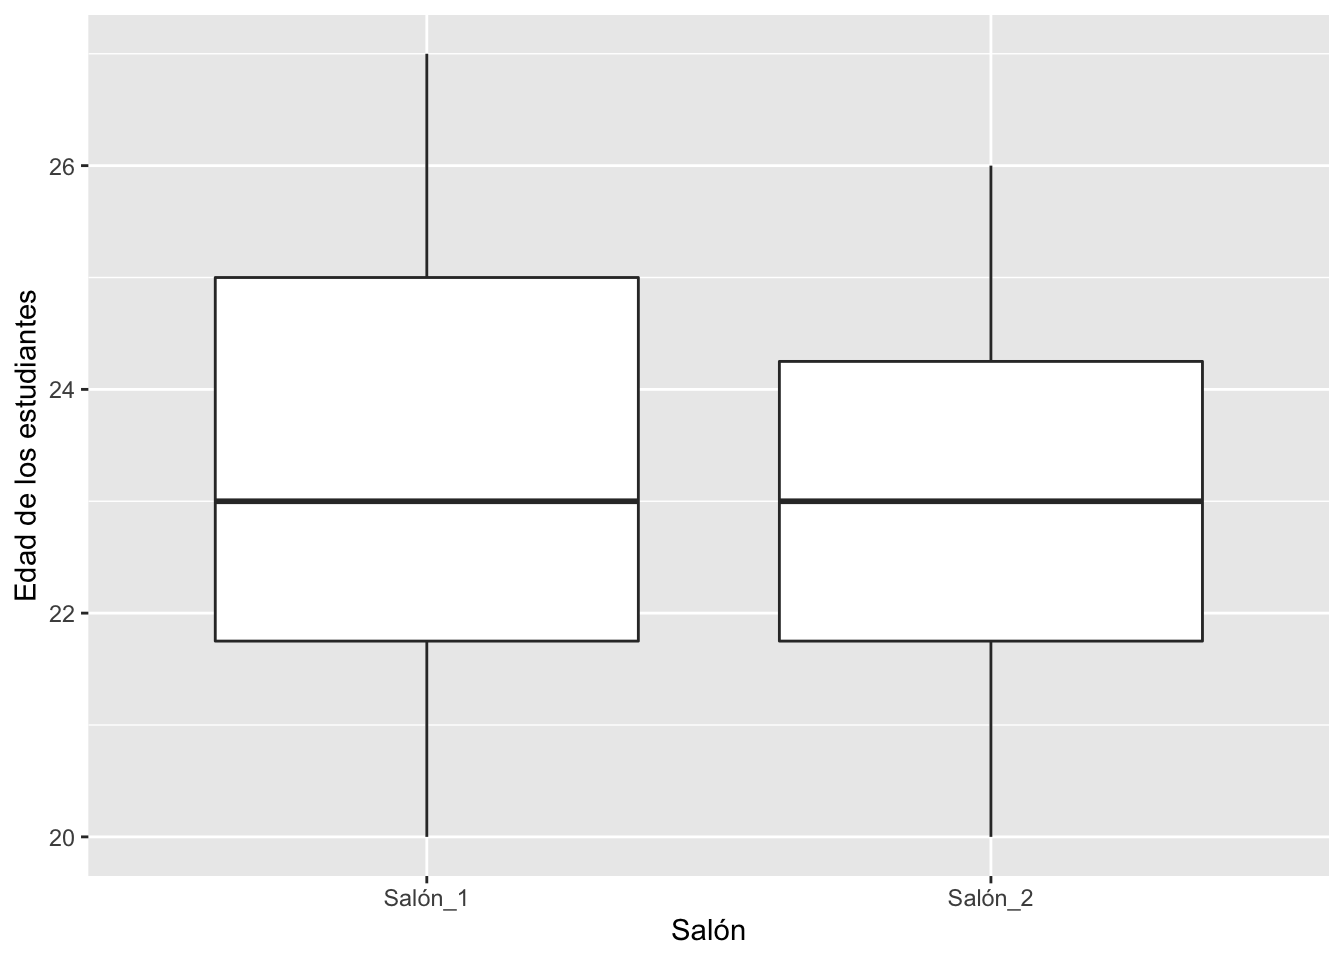
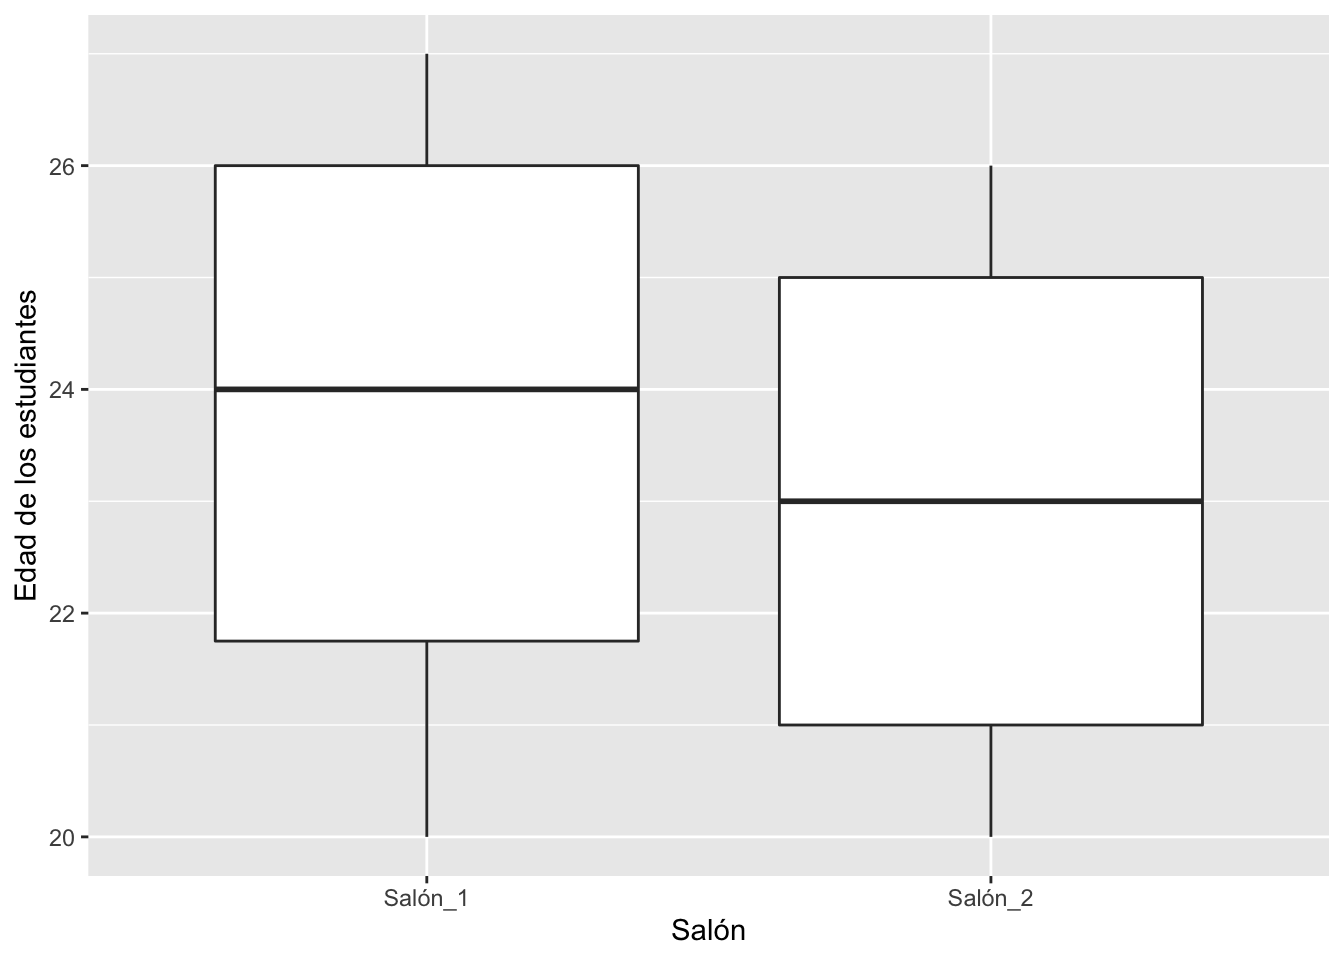
yml

diff --git a/G1-ggplot2.html b/G1-ggplot2.html
@@ -431,19 +431,7 @@ div.tocify {
   </a>
   <ul class="dropdown-menu" role="menu">
     <li>
-      <a href="Plataforma.html">Lo básico de RStudio</a>
-    </li>
-    <li>
-      <a href="RMarkdown.html">RMarkdown: Lo básico</a>
-    </li>
-    <li>
       <a href="Documento_RMarkdown-ed">Una breve introducción a RMarkdown</a>
-    </li>
-    <li>
-      <a href="Tendencias_Centrales.html"> Tendencias Centrales</a>
-    </li>
-    <li>
-      <a href="Medidas_Dispersión.html"> Medidas de Dispersión</a>
     </li>
   </ul>
 </li>
@@ -525,17 +513,17 @@ div.tocify {
 <p>Veamos un ejemplo. Si uno lista las edades de estudiantes universitarios de dos salones, tendremos el reto de intentar discernir si sus edades son aproximadamente iguales o diferentes solo al mirar la lista. ¿Será posible? A ver, intenta explicar cuál es la diferencia (si existe alguna) en las edades de las dos listas siguientes.</p>
 <p>Edades del salón 1:</p>
 <pre><code>## $V1
-##   [1] 23 23 21 20 24 21 22 27 27 25 27 27 24 20 22 20 22 20 26 24 24 21 24 24 24
-##  [26] 21 21 26 22 21 26 25 25 24 26 23 22 24 23 21 24 21 27 20 24 23 24 20 21 22
-##  [51] 25 24 23 22 25 22 27 23 21 27 26 27 24 27 24 23 23 20 27 21 27 21 25 22 25
-##  [76] 27 22 24 27 23 20 23 20 23 26 27 25 21 22 25 26 21 20 23 25 21 22 26 26 22</code></pre>
+##   [1] 24 22 24 22 23 24 20 22 21 27 25 24 22 24 21 20 27 20 23 20 22 27 22 26 20
+##  [26] 22 20 23 21 24 23 22 21 26 27 25 21 25 26 26 25 22 27 27 25 26 25 27 26 25
+##  [51] 27 27 25 26 20 25 27 26 26 22 22 20 21 27 26 22 21 24 25 24 21 25 21 27 26
+##  [76] 25 21 20 20 24 23 24 21 25 26 23 25 21 27 25 25 25 26 20 20 20 26 23 23 25</code></pre>
 <hr />
 <p>Edades del salón 2:</p>
 <pre><code>## $V1
-##   [1] 23 25 21 21 24 22 24 23 24 22 21 24 24 23 24 26 26 22 24 23 22 21 25 24 23
-##  [26] 24 26 23 24 24 25 20 25 26 23 23 26 26 25 24 26 26 26 26 25 23 20 20 25 26
-##  [51] 21 21 23 21 23 22 21 20 21 20 25 23 24 26 25 24 23 21 24 20 21 24 20 26 22
-##  [76] 24 24 21 26 20 22 26 23 25 24 20 23 20 24 22 20 23 23 23 20 20 24 24 24 23</code></pre>
+##   [1] 22 22 25 20 21 20 23 25 21 26 20 24 25 20 26 22 26 26 24 26 23 23 20 26 24
+##  [26] 21 20 25 21 22 22 23 25 21 21 23 20 20 24 26 23 25 21 26 21 21 22 26 23 25
+##  [51] 25 26 20 22 25 26 25 21 25 24 22 22 21 21 24 26 26 20 20 25 21 24 24 22 25
+##  [76] 22 25 24 23 26 24 26 26 20 22 20 26 20 26 21 20 23 26 22 21 22 24 20 26 25</code></pre>
 <p>Probablemente notes que no es evidente a primera vista cuál es la diferencia entre las dos listas de datos. Necesitamos ayuda para visualizar la diferencia. A continuación se explican un par de maneras de ver esa misma información.</p>
 <hr />
 <div id="resumir-la-información-en-tablas" class="section level2">
@@ -905,7 +893,7 @@ dplyr::group_by(Salón)%&gt;%
     </tr>
   </thead>
   <tbody class="gt_table_body">
-    <tr><td class="gt_row gt_right">23.315</td>
+    <tr><td class="gt_row gt_right">23.37</td>
 <td class="gt_row gt_right">20</td>
 <td class="gt_row gt_right">27</td></tr>
   </tbody>

diff --git a/G15b_gganimate.html b/G15b_gganimate.html
@@ -431,19 +431,7 @@ div.tocify {
   </a>
   <ul class="dropdown-menu" role="menu">
     <li>
-      <a href="Plataforma.html">Lo básico de RStudio</a>
-    </li>
-    <li>
-      <a href="RMarkdown.html">RMarkdown: Lo básico</a>
-    </li>
-    <li>
       <a href="Documento_RMarkdown-ed">Una breve introducción a RMarkdown</a>
-    </li>
-    <li>
-      <a href="Tendencias_Centrales.html"> Tendencias Centrales</a>
-    </li>
-    <li>
-      <a href="Medidas_Dispersión.html"> Medidas de Dispersión</a>
     </li>
   </ul>
 </li>
@@ -569,7 +557,7 @@ t</code></pre>
 <div id="poniendo-un-punto-para-valor" class="section level2">
 <h2>Poniendo un punto para valor</h2>
 <p>Los puntos se pueden quedar en el gráfico añadiendo <strong>(group = seq_along(Día)</strong>.</p>
-<pre class="r"><code>t + geom_point(aes(group = seq_along( Día))) +
+<pre class="r"><code>t + geom_point(aes(group = seq_along( Día ))) +
   transition_reveal( Día)</code></pre>
 <p><img src="G15b_gganimate_files/figure-html/puntos%20permanentes-1.gif" /><!-- --></p>
 </div>

diff --git a/2_Activity_R4DS.html b/2_Activity_R4DS.html
@@ -355,19 +355,7 @@ $(document).ready(function () {
   </a>
   <ul class="dropdown-menu" role="menu">
     <li>
-      <a href="Plataforma.html">Lo básico de RStudio</a>
-    </li>
-    <li>
-      <a href="RMarkdown.html">RMarkdown: Lo básico</a>
-    </li>
-    <li>
       <a href="Documento_RMarkdown-ed">Una breve introducción a RMarkdown</a>
-    </li>
-    <li>
-      <a href="Tendencias_Centrales.html"> Tendencias Centrales</a>
-    </li>
-    <li>
-      <a href="Medidas_Dispersión.html"> Medidas de Dispersión</a>
     </li>
   </ul>
 </li>

diff --git a/404.html b/404.html
@@ -354,19 +354,7 @@ $(document).ready(function () {
   </a>
   <ul class="dropdown-menu" role="menu">
     <li>
-      <a href="Plataforma.html">Lo básico de RStudio</a>
-    </li>
-    <li>
-      <a href="RMarkdown.html">RMarkdown: Lo básico</a>
-    </li>
-    <li>
       <a href="Documento_RMarkdown-ed">Una breve introducción a RMarkdown</a>
-    </li>
-    <li>
-      <a href="Tendencias_Centrales.html"> Tendencias Centrales</a>
-    </li>
-    <li>
-      <a href="Medidas_Dispersión.html"> Medidas de Dispersión</a>
     </li>
   </ul>
 </li>

diff --git a/Descripción.html b/Descripción.html
@@ -354,19 +354,7 @@ $(document).ready(function () {
   </a>
   <ul class="dropdown-menu" role="menu">
     <li>
-      <a href="Plataforma.html">Lo básico de RStudio</a>
-    </li>
-    <li>
-      <a href="RMarkdown.html">RMarkdown: Lo básico</a>
-    </li>
-    <li>
       <a href="Documento_RMarkdown-ed">Una breve introducción a RMarkdown</a>
-    </li>
-    <li>
-      <a href="Tendencias_Centrales.html"> Tendencias Centrales</a>
-    </li>
-    <li>
-      <a href="Medidas_Dispersión.html"> Medidas de Dispersión</a>
     </li>
   </ul>
 </li>

diff --git a/Documento_RMarkdown-ed.html b/Documento_RMarkdown-ed.html
@@ -355,19 +355,7 @@ $(document).ready(function () {
   </a>
   <ul class="dropdown-menu" role="menu">
     <li>
-      <a href="Plataforma.html">Lo básico de RStudio</a>
-    </li>
-    <li>
-      <a href="RMarkdown.html">RMarkdown: Lo básico</a>
-    </li>
-    <li>
       <a href="Documento_RMarkdown-ed">Una breve introducción a RMarkdown</a>
-    </li>
-    <li>
-      <a href="Tendencias_Centrales.html"> Tendencias Centrales</a>
-    </li>
-    <li>
-      <a href="Medidas_Dispersión.html"> Medidas de Dispersión</a>
     </li>
   </ul>
 </li>

diff --git a/Documento_RMarkdown-ed2.html b/Documento_RMarkdown-ed2.html
@@ -355,19 +355,7 @@ $(document).ready(function () {
   </a>
   <ul class="dropdown-menu" role="menu">
     <li>
-      <a href="Plataforma.html">Lo básico de RStudio</a>
-    </li>
-    <li>
-      <a href="RMarkdown.html">RMarkdown: Lo básico</a>
-    </li>
-    <li>
       <a href="Documento_RMarkdown-ed">Una breve introducción a RMarkdown</a>
-    </li>
-    <li>
-      <a href="Tendencias_Centrales.html"> Tendencias Centrales</a>
-    </li>
-    <li>
-      <a href="Medidas_Dispersión.html"> Medidas de Dispersión</a>
     </li>
   </ul>
 </li>

diff --git a/Documento_RMarkdown-ed2_GT.html b/Documento_RMarkdown-ed2_GT.html
@@ -355,19 +355,7 @@ $(document).ready(function () {
   </a>
   <ul class="dropdown-menu" role="menu">
     <li>
-      <a href="Plataforma.html">Lo básico de RStudio</a>
-    </li>
-    <li>
-      <a href="RMarkdown.html">RMarkdown: Lo básico</a>
-    </li>
-    <li>
       <a href="Documento_RMarkdown-ed">Una breve introducción a RMarkdown</a>
-    </li>
-    <li>
-      <a href="Tendencias_Centrales.html"> Tendencias Centrales</a>
-    </li>
-    <li>
-      <a href="Medidas_Dispersión.html"> Medidas de Dispersión</a>
     </li>
   </ul>
 </li>

diff --git a/Documento_RMarkdown.html b/Documento_RMarkdown.html
@@ -355,19 +355,7 @@ $(document).ready(function () {
   </a>
   <ul class="dropdown-menu" role="menu">
     <li>
-      <a href="Plataforma.html">Lo básico de RStudio</a>
-    </li>
-    <li>
-      <a href="RMarkdown.html">RMarkdown: Lo básico</a>
-    </li>
-    <li>
       <a href="Documento_RMarkdown-ed">Una breve introducción a RMarkdown</a>
-    </li>
-    <li>
-      <a href="Tendencias_Centrales.html"> Tendencias Centrales</a>
-    </li>
-    <li>
-      <a href="Medidas_Dispersión.html"> Medidas de Dispersión</a>
     </li>
   </ul>
 </li>

diff --git a/E5-supuestos.html b/E5-supuestos.html
@@ -355,19 +355,7 @@ $(document).ready(function () {
   </a>
   <ul class="dropdown-menu" role="menu">
     <li>
-      <a href="Plataforma.html">Lo básico de RStudio</a>
-    </li>
-    <li>
-      <a href="RMarkdown.html">RMarkdown: Lo básico</a>
-    </li>
-    <li>
       <a href="Documento_RMarkdown-ed">Una breve introducción a RMarkdown</a>
-    </li>
-    <li>
-      <a href="Tendencias_Centrales.html"> Tendencias Centrales</a>
-    </li>
-    <li>
-      <a href="Medidas_Dispersión.html"> Medidas de Dispersión</a>
     </li>
   </ul>
 </li>

diff --git a/E8-Tipos_de_Datos.html b/E8-Tipos_de_Datos.html
@@ -355,19 +355,7 @@ $(document).ready(function () {
   </a>
   <ul class="dropdown-menu" role="menu">
     <li>
-      <a href="Plataforma.html">Lo básico de RStudio</a>
-    </li>
-    <li>
-      <a href="RMarkdown.html">RMarkdown: Lo básico</a>
-    </li>
-    <li>
       <a href="Documento_RMarkdown-ed">Una breve introducción a RMarkdown</a>
-    </li>
-    <li>
-      <a href="Tendencias_Centrales.html"> Tendencias Centrales</a>
-    </li>
-    <li>
-      <a href="Medidas_Dispersión.html"> Medidas de Dispersión</a>
     </li>
   </ul>
 </li>

diff --git a/Exponential-Model.html b/Exponential-Model.html
@@ -356,19 +356,7 @@ $(document).ready(function () {
   </a>
   <ul class="dropdown-menu" role="menu">
     <li>
-      <a href="Plataforma.html">Lo básico de RStudio</a>
-    </li>
-    <li>
-      <a href="RMarkdown.html">RMarkdown: Lo básico</a>
-    </li>
-    <li>
       <a href="Documento_RMarkdown-ed">Una breve introducción a RMarkdown</a>
-    </li>
-    <li>
-      <a href="Tendencias_Centrales.html"> Tendencias Centrales</a>
-    </li>
-    <li>
-      <a href="Medidas_Dispersión.html"> Medidas de Dispersión</a>
     </li>
   </ul>
 </li>
